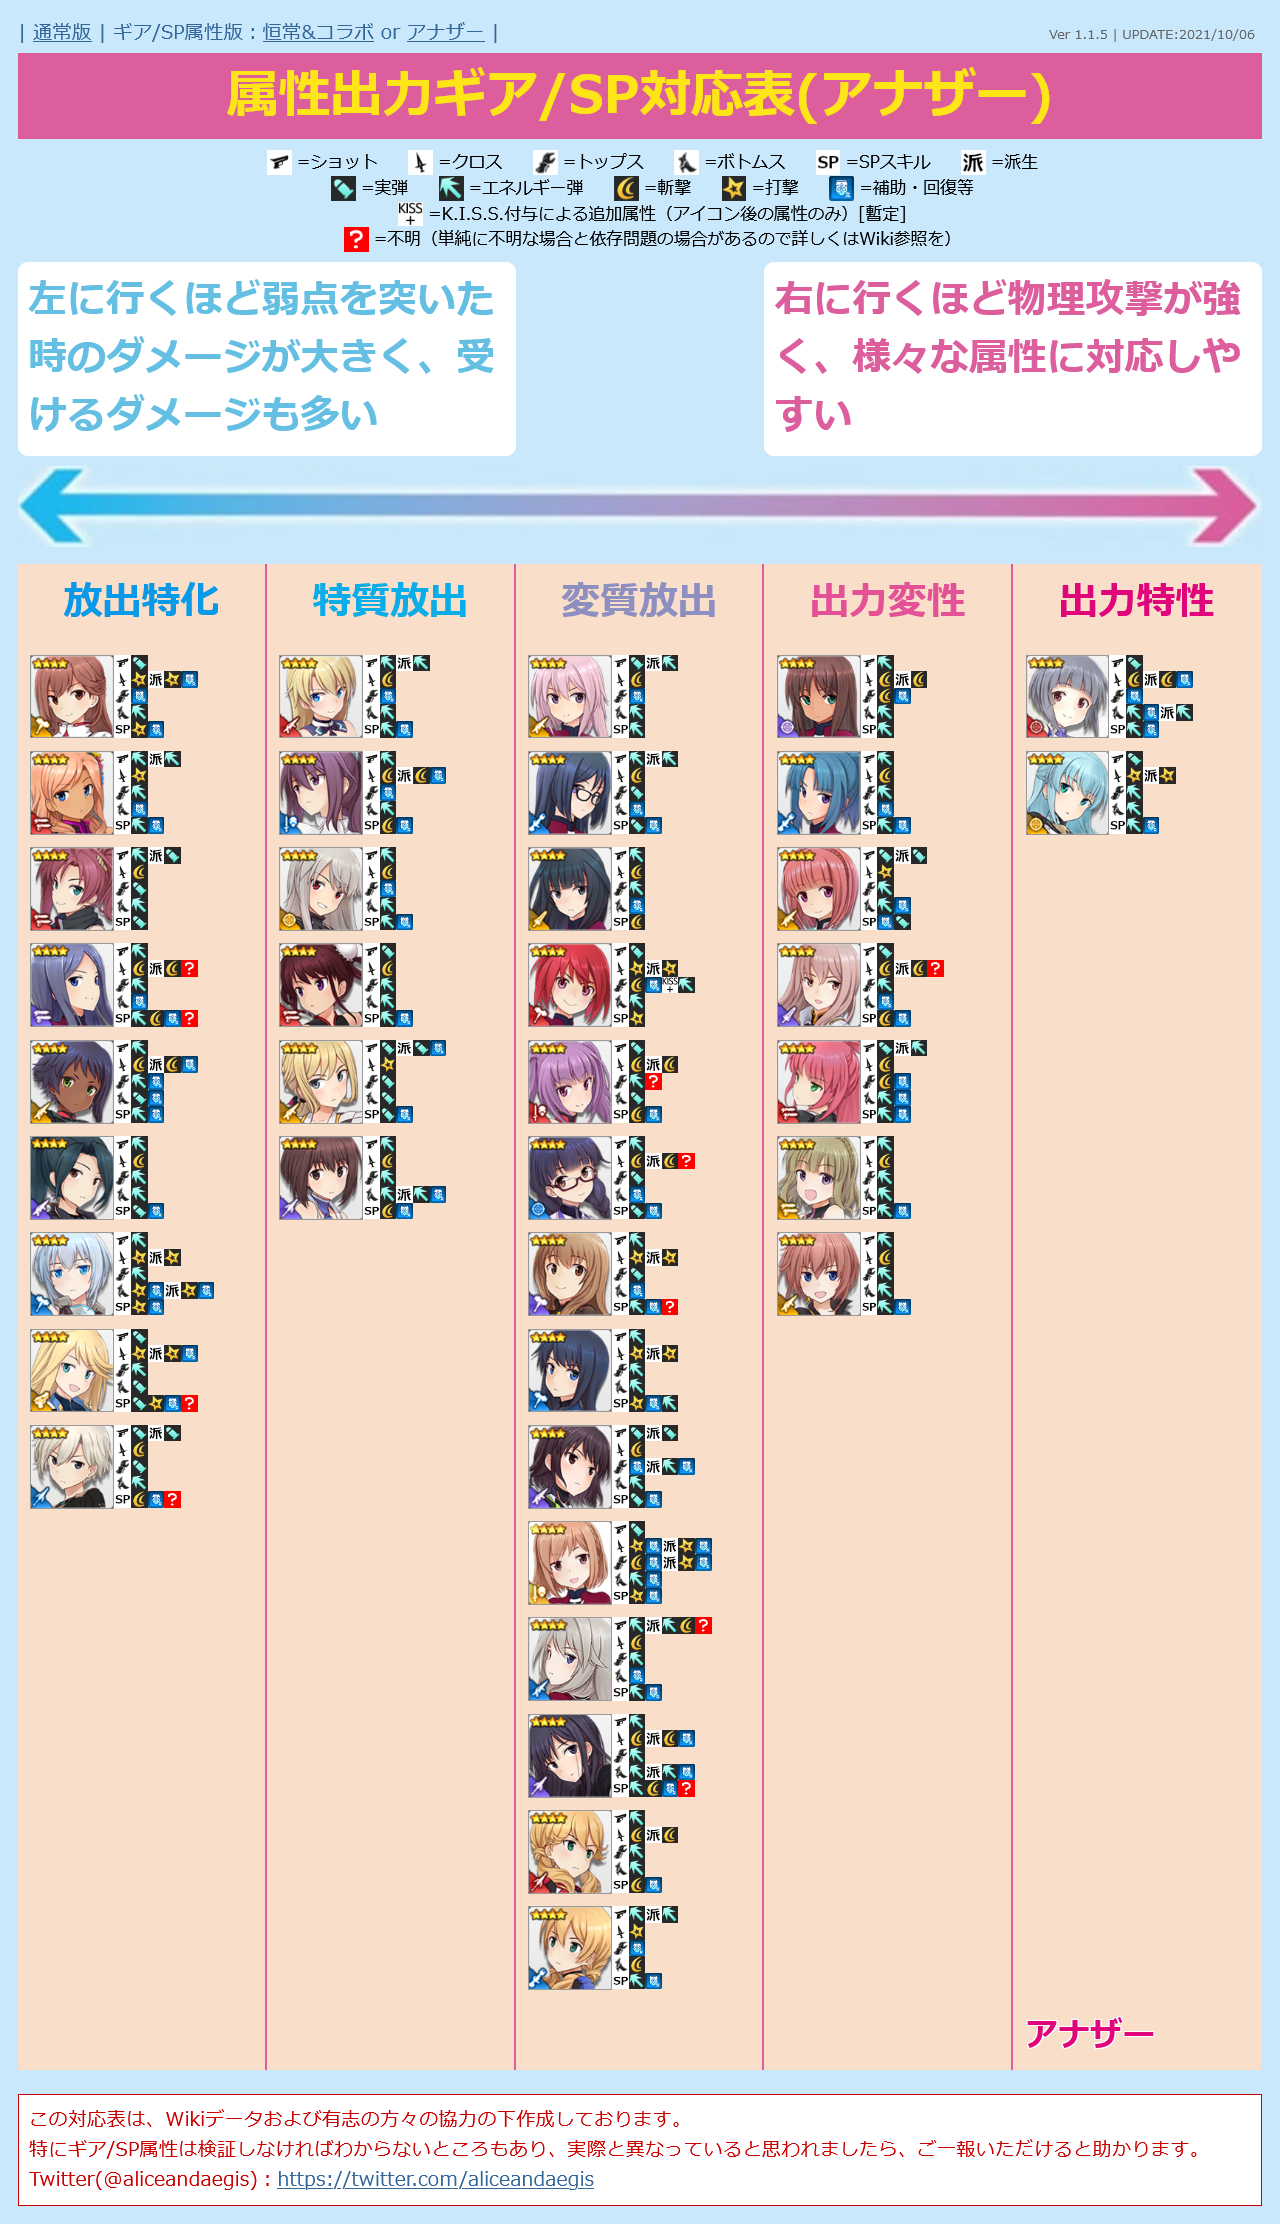
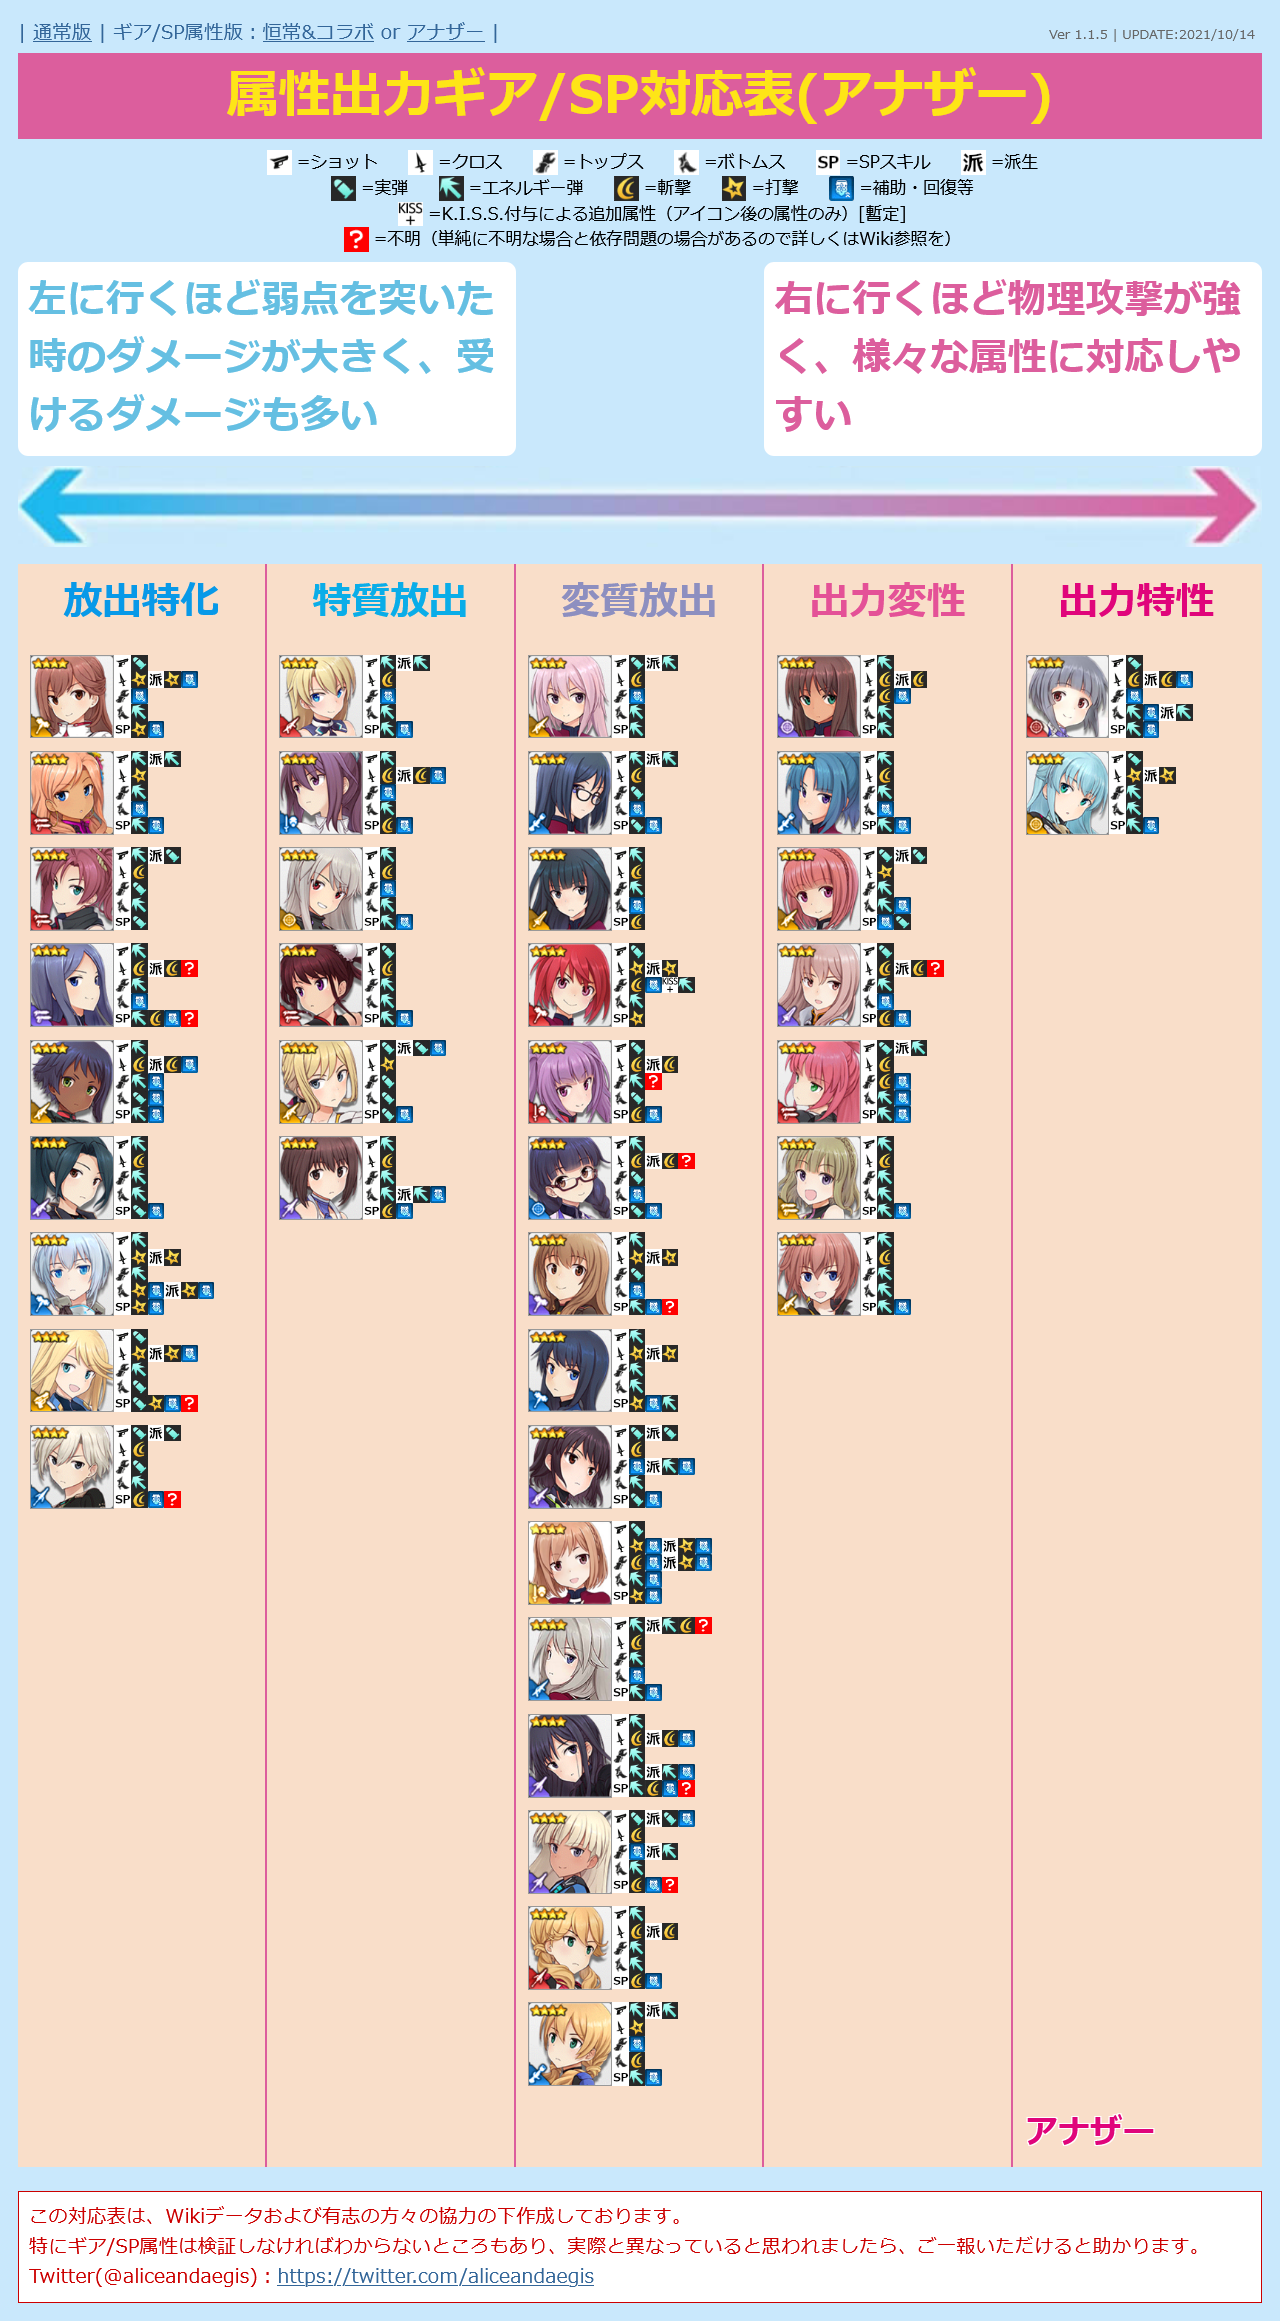
UPDATE charadata
・アナザー 新居目 安里 / 紺碧を追加

Changed region(s): [[0.0, 0.0, 1.0, 0.8997], [0.0, 0.8997, 1.0, 0.9928], [0.875, 0.0, 0.9688, 0.031]]

diff --git a/alice.html b/alice.html
@@ -12,7 +12,7 @@
   <script>
 
 /* 更新情報 必要に応じて書き換えてください */
-  var version = "Ver 1.1.5 | UPDATE:2021/10/06";
+  var version = "Ver 1.1.5 | UPDATE:2021/10/14";
 
 
 /*
@@ -953,14 +953,28 @@
       "type": "5",
       "src": "normal-yasuri.png",
       "name": "新居目 安里",
-      "equip1": "1",
+      "equip1": "1/15",
       "equip2": "3",
-      "equip3": "5",
+      "equip3": "5/2",
       "equip4": "2",
       "sp": "1",
       "attr": "2",
       "link": "https://wikiwiki.jp/alicegear/%E6%96%B0%E5%B1%85%E7%9B%AE%E5%AE%89%E9%87%8C",
       "category": ""
+    },
+    {
+      "id": "33",
+      "type": "3",
+      "src": "another-yasuri.png",
+      "name": "新居目 安里 / 紺碧",
+      "equip1": "1/15",
+      "equip2": "3",
+      "equip3": "5/2",
+      "equip4": "2",
+      "sp": "35?",
+      "attr": "2",
+      "link": "https://wikiwiki.jp/alicegear/%E6%96%B0%E5%B1%85%E7%9B%AE%E5%AE%89%E9%87%8C%E7%B4%BA%E7%A2%A7",
+      "category": "10"
     },
     {
       "id": "34",
